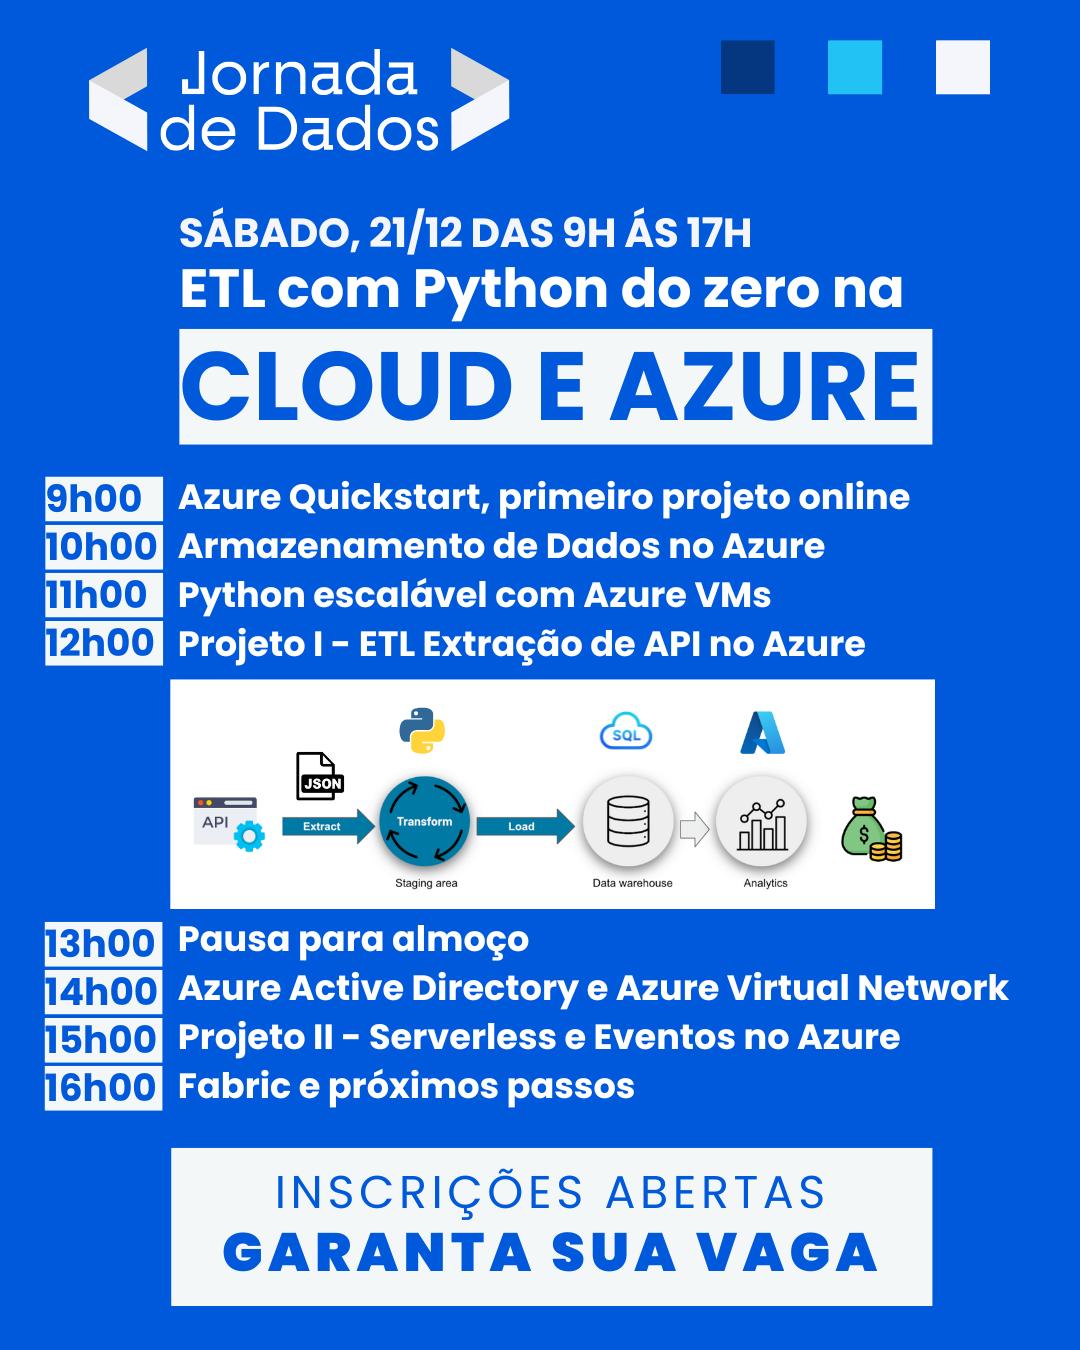
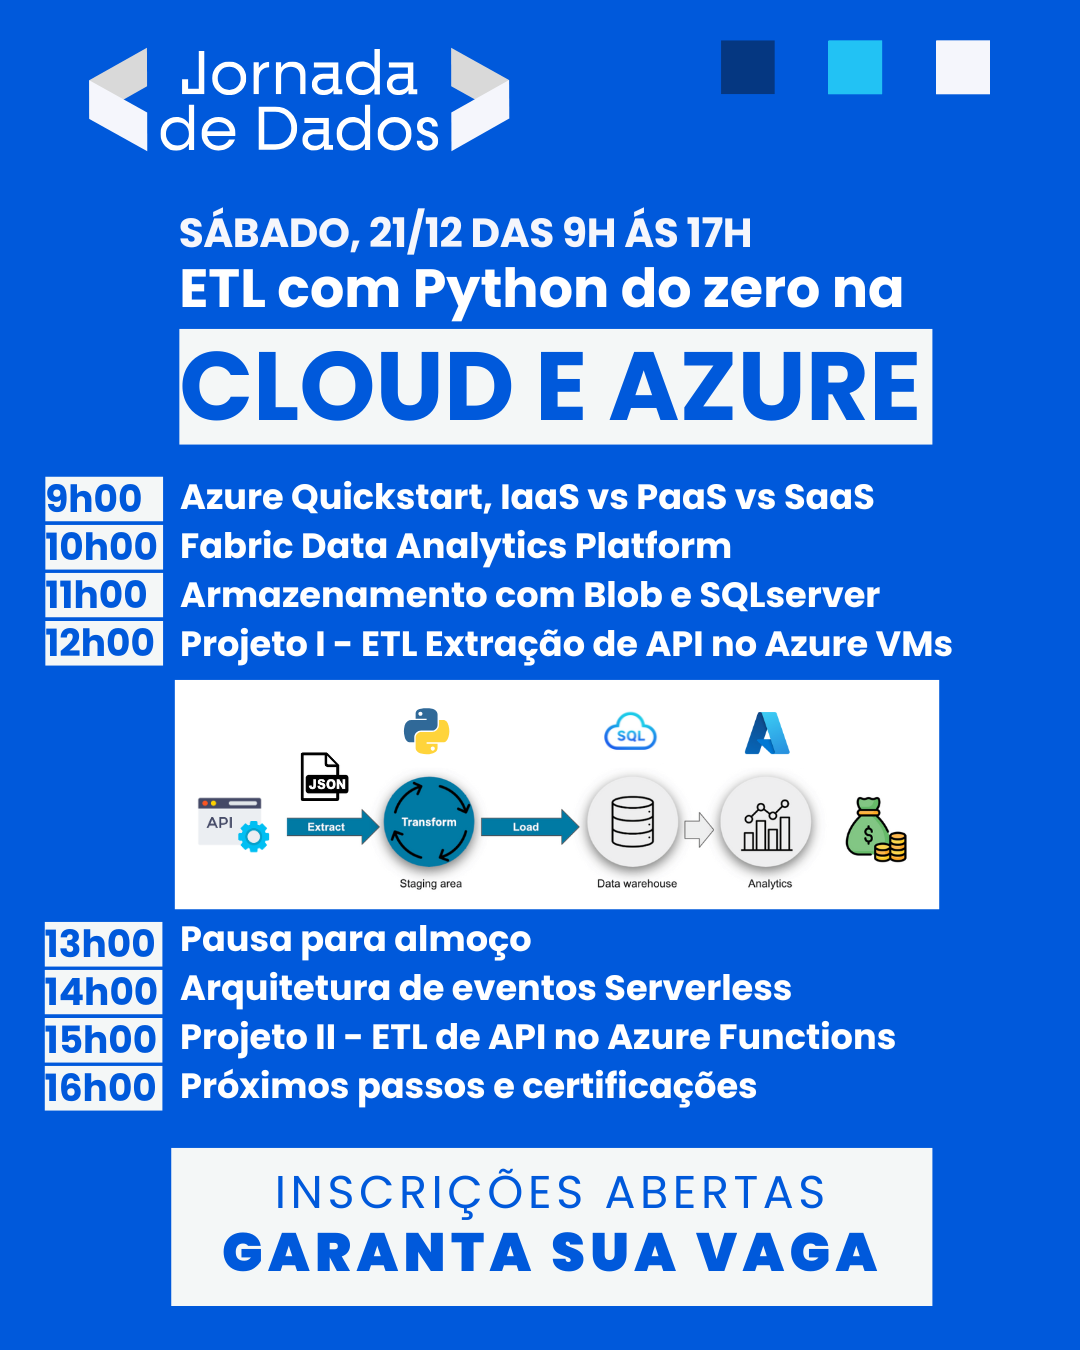
update

Changed region(s): [[0.1528, 0.3422, 0.9472, 0.84], [0.6722, 0.5289, 0.7333, 0.56], [0.55, 0.5289, 0.6111, 0.56]]

diff --git a/helloworld/README.md b/helloworld/README.md
@@ -1,0 +1,156 @@
+# Bootcamp Cloud: Aula 01
+
+## Introdução ao Azure e Cloud Computing
+
+**Objetivo:** Fornecer uma introdução prática ao uso do Azure, abordando a criação de contas, controle de custos e navegação na interface gráfica, com foco em aplicações na área de dados.
+
+---
+
+## 1. Por que Utilizar Cloud?
+
+1. **Escalabilidade:** O Azure permite escalar recursos conforme necessário, sem a necessidade de grandes investimentos iniciais.
+2. **Custo-eficiência:** Com o Azure, você paga apenas pelo que utiliza, reduzindo custos operacionais.
+3. **Acessibilidade:** Serviços de nuvem podem ser acessados de qualquer lugar, facilitando a colaboração e o trabalho remoto.
+4. **Segurança:** O Azure oferece robustos recursos de segurança, incluindo criptografia e autenticação multifator.
+
+## 2. O que Não é Cloud
+
+1. **Não é um Data Center On-Premise:** Embora a nuvem envolva servidores, não é o mesmo que ter um data center físico na empresa.
+2. **Não é apenas armazenamento:** A nuvem envolve muito mais do que apenas guardar dados. É um ecossistema completo de serviços.
+3. **Não é sempre barato:** Se mal gerido, o uso da nuvem pode resultar em custos inesperados.
+
+## 3. Acessando o Portal do Azure
+
+1. **Portal do Azure:** Visite [portal.azure.com](https://portal.azure.com).
+2. **Idioma do Portal:**
+   - O idioma pode ser configurado na conta do usuário.
+   - **Motivo:** O inglês é o idioma predominante em certificações, documentação, vagas de emprego e na própria interface do Azure.
+
+## 4. Cadastro e Configuração Inicial da Conta Azure
+
+**Criar uma Conta no Azure:**
+1. Acesse o site oficial do Azure (azure.microsoft.com) e clique em "Iniciar gratuitamente".
+2. Insira as informações solicitadas, como e-mail, senha e nome da conta.
+3. Forneça as informações de pagamento (cartão de crédito/débito) para acessar os créditos gratuitos.
+4. Verifique a conta via e-mail e complete o processo de criação.
+
+**Configurações Iniciais:**
+- O Azure oferece **200 USD em créditos gratuitos** no primeiro mês e uma camada gratuita de serviços essenciais.
+- Após o cadastro, revise as configurações de segurança e habilite a autenticação multifator (MFA) para proteger a conta.
+
+## 5. Controle de Custos no Azure
+
+**Evitar Custos Inesperados:**
+- **Azure Cost Management:** Use o Cost Management para configurar alertas de custo. Defina orçamentos mensais e configure notificações por e-mail.
+- **Azure Pricing Calculator:** Utilize a calculadora de preços para estimar custos antes de provisionar recursos.
+
+**Dicas Práticas:**
+- Defina **limites de serviço** para evitar provisionamento excessivo.
+- Revise regularmente os recursos em uso e encerre aqueles que não são necessários.
+
+## 6. Navegação no Portal do Azure
+
+**Azure Portal:**
+- O **Azure Portal** é o painel de controle principal do Azure. Ele oferece acesso a todos os serviços disponíveis, como Storage Account, Virtual Machines e SQL Database.
+
+**Serviços Comuns:**
+- **Blob Storage:** Armazenamento escalável de objetos, ideal para dados brutos, backups e arquivos de grande volume.
+- **Virtual Machines (VM):** Serviço que permite criar e gerenciar máquinas virtuais na nuvem.
+- **Azure SQL Database:** Serviço gerenciado de banco de dados relacional, que suporta várias arquiteturas.
+
+**Documentação e Suporte:**
+- O Azure oferece documentação abrangente e suporte direto no portal. Acesse a documentação para obter informações detalhadas sobre cada serviço e suas configurações.
+
+## 7. Visão Geral dos Produtos Azure
+
+1. **Explorando Todos os Produtos:**
+   - Navegue até a seção "Todos os serviços" no menu principal.
+   - Explore as diversas categorias: Computação, Armazenamento, Banco de Dados, etc.
+
+2. **Máquinas Virtuais (VM):**
+   - **Visão Geral:** Serviço que permite criar instâncias de servidores virtuais.
+   - **Tipos de Instâncias:** De uso geral, otimizadas para memória, para computação, etc.
+   - **Democratização:** A nuvem democratiza o acesso a tecnologias avançadas.
+
+3. **Visão Geral de Bancos de Dados:**
+   - **Azure SQL Database:** Gerencia bancos de dados como MySQL e PostgreSQL.
+   - **Cosmos DB:** Banco de dados NoSQL globalmente distribuído.
+   - **Data Lake Storage:** Solução para análise e armazenamento de grandes volumes de dados.
+
+## 8. Configuração de Regiões
+
+**Regiões e Zonas de Disponibilidade:**
+- **Regiões** são locais geográficos onde o Azure mantém seus data centers. Cada região possui várias **Zonas de Disponibilidade**, que são grupos de data centers fisicamente separados.
+- A escolha da região influencia a latência dos serviços e pode ter implicações legais e de conformidade.
+
+**Escolha da Região:**
+- Selecione a região mais próxima dos seus usuários ou que atenda aos requisitos específicos do projeto.
+
+## 9. Criando e Configurando uma Conta de Armazenamento
+
+Nesta seção, você aprenderá a criar e configurar uma **Storage Account** no Azure, armazenar arquivos, configurar permissões e servir um site estático.
+
+### 9.1 Criando uma Conta de Armazenamento
+
+1. **Nome da Conta:**
+   - Escolha um nome único. O nome deve ser globalmente único dentro do Azure.
+  
+2. **Localização:**
+   - Selecione a região mais próxima dos seus usuários.
+
+3. **Tipo de Conta:**
+   - Escolha entre **Standard** (geralmente mais barato) ou **Premium** (melhor performance).
+
+4. **Camadas de Acesso:**
+   - Configure o nível de acesso: **Hot** (uso frequente), **Cool** (uso menos frequente) ou **Archive** (armazenamento a longo prazo).
+
+5. **Tags:**
+   - Adicione tags para identificar e organizar sua conta de armazenamento.
+
+6. **Criptografia:**
+   - Configure a criptografia padrão para garantir que todos os objetos armazenados sejam criptografados automaticamente.
+
+### 9.2 Configurando um Blob Storage
+
+1. **Criar um Container:**
+   - No portal do Azure, crie um container dentro da conta de armazenamento.
+   - Configure as permissões (Privado, Blob, ou Público).
+
+2. **Upload de Arquivo:**
+   - Faça upload de arquivos no container.
+
+3. **Acesso Público:**
+   - Configure permissões para tornar os arquivos acessíveis publicamente, se necessário.
+
+### 9.3 Habilitando um Website Estático
+
+1. **Configuração:**
+   - Habilite a opção de hospedagem de site estático na conta de armazenamento.
+   - Defina o documento de índice, como `index.html`.
+
+2. **Acessando o Site:**
+   - Use a URL fornecida pelo Azure para acessar o site estático.
+
+---
+
+## 10. Criando e Configurando uma Máquina Virtual (VM)
+
+### 10.1 Configurando a Máquina Virtual
+
+1. **Criar uma VM:**
+   - Escolha o tipo de imagem (Windows, Linux) e tamanho da instância.
+   - Configure a rede virtual, NSG (Network Security Group) e outros parâmetros.
+
+2. **Conexão via SSH:**
+   - Use o comando SSH para conectar-se à VM:
+
+   ```bash
+   ssh -i "caminho-da-chave.pem" usuario@ip-publico
+   ```
+
+3. **Instalar Python e Aplicações:**
+   - Configure o ambiente instalando Python, `pip3` e Streamlit.
+
+---
+
+Essa estrutura substitui todos os aspectos da AWS para o equivalente no Azure, mantendo as funcionalidades principais e adaptando ao ambiente da Microsoft. Caso precise de ajustes adicionais, basta me avisar!

diff --git a/README.md b/README.md
@@ -1,5 +1,24 @@
-# Contexto de Aprendizado
-## Workshop Microsoft Azure
+ 
+<p align="center">
+  <a href="https://suajornadadedados.com.br/"><img src="https://github.com/lvgalvao/data-engineering-roadmap/raw/main/pics/logo.png" alt="Jornada de Dados"></a>
+</p>
+<p align="center">
+    <em>Nossa missão é fornecer o melhor ensino em engenharia de dados</em>
+</p>
+
+Bem-vindo a **Jornada de Dados**
+
+# Workshop Microsoft Azure
+
+---
+
+Esquema do projeto: [app.excalidraw.com](https://link.excalidraw.com/l/8pvW6zbNUnD/2gahrXjzy54)
+
+---
+
+### Site
+
+Para se inscrever: [workshop-azure](https://suajornadadedados.com.br/workshop-azure/)
 
 ### Resumo
 Este workshop tem como objetivo fornecer uma introdução prática ao uso da Microsoft Azure, abordando desde a criação de contas e controle de custos até a implementação de serviços como Azure VMs, Azure Serverless e Azure Active Directory. Os participantes irão aprender a navegar na interface do Azure, criar e gerenciar recursos, além de desenvolver projetos práticos que envolvem ETL e aplicativos web escaláveis.
@@ -12,9 +31,6 @@ Este workshop tem como objetivo fornecer uma introdução prática ao uso da Mic
 ### O que é Cloud
 Revisaremos os conceitos fundamentais de Cloud Computing, destacando as vantagens da escalabilidade, custo-eficiência, acessibilidade e segurança oferecidas pela nuvem. Discutiremos também o que não constitui uma solução de cloud, como a diferença entre cloud e data centers on-premise, além de mitigar a percepção de que a nuvem é sempre a opção mais barata.
 
-### Criação de Conta
-Os participantes serão guiados na criação de uma conta gratuita no Azure, incluindo a configuração inicial, habilitação da autenticação multifator (MFA) e a utilização do Azure Cost Management para controle de custos. Será demonstrado como acessar e navegar pelo Portal do Azure, configurando as preferências de idioma e explorando os serviços disponíveis.
-
 ### Tópico ou Unidade de Estudo
 1. Introdução ao Azure e Cloud Computing
 2. Criação e Configuração de Conta no Azure
@@ -22,11 +38,10 @@ Os participantes serão guiados na criação de uma conta gratuita no Azure, inc
 4. Navegação na Interface Gráfica do Azure
 5. Visão Geral dos Produtos Azure
 6. Tipos de Serviço no Azure
-7. Configuração de Regiões no Azure
-8. Configuração de Identidade e Acesso (Azure Active Directory e RBAC)
-9. Criação e Configuração de Serviços de Armazenamento (Blob Storage)
-10. Criação e Configuração de Máquinas Virtuais (Azure VMs)
-11. Desenvolvimento de Projetos Práticos (ETL e Serverless)
+7. Tipos de Serviço no Azure
+8. Criação e Configuração de Serviços de Armazenamento (Blob Storage) e Azure SQLServer
+9. Criação e Configuração de Máquinas Virtuais (Azure VMs)
+10. Desenvolvimento de Projetos Práticos (ETL e Serverless)
 
 ### Objetivo
 Fornecer uma introdução prática ao uso da Microsoft Azure, capacitando os participantes a criar e gerenciar recursos na nuvem, implementar soluções escaláveis e seguras, e desenvolver projetos que utilizem serviços de dados e computação disponíveis na plataforma Azure.
@@ -37,25 +52,17 @@ Fornecer uma introdução prática ao uso da Microsoft Azure, capacitando os par
 
 ![imagem](./pics/imagem_02.png)
 
-### Introdução (1 hora)
-Apresentação do workshop, objetivos e cronograma. Revisão dos conceitos básicos de Cloud Computing e introdução à plataforma Microsoft Azure. Discussão sobre as vantagens de utilizar a nuvem e o impacto no mercado de tecnologia.
-
-### Plataforma Azure vs Open Source
-Comparação entre soluções proprietárias da Azure e alternativas de código aberto. Análise de cenários onde cada abordagem é mais vantajosa, destacando interoperabilidade e flexibilidade.
-
-### Fabric (1 hora)
-Exploração do Azure Service Fabric, sua arquitetura e casos de uso. Demonstração de como implementar e gerenciar aplicativos distribuídos utilizando o Service Fabric.
-
-### Azure VMs (1 hora)
-Criação e configuração de Máquinas Virtuais no Azure. Configuração de redes, segurança e gerenciamento de VMs. Prática de deploy de uma aplicação simples em uma VM Linux.
-
-### Azure Serverless (1 hora)
-Introdução aos serviços serverless da Azure, como Azure Functions. Desenvolvimento de funções serverless para automatizar tarefas e responder a eventos em tempo real.
-
-### Implementação
-Desenvolvimento de projetos práticos:
-- **Projeto I - ETL Extração de API no Azure:** Implementação de um pipeline ETL utilizando serviços de dados do Azure.
-- **Projeto II - Serverless e Eventos no Azure:** Criação de soluções serverless que respondem a eventos, integrando diferentes serviços da Azure.
-
 ### Contexto de Aprendizado
 Introdução ao Azure e Cloud Computing, com foco em aplicações na área de dados. Revisão de conceitos anteriores para assegurar que os alunos estão preparados para absorver conteúdos novos e avançados.
+
+### Hello World
+
+### Storage
+
+#### blob storage
+
+##### parquet
+
+##### html.index
+
+### In

diff --git a/storage/bancodedados/README.md b/storage/bancodedados/README.md
@@ -1,0 +1,7 @@
+CREATE TABLE BitcoinData (
+    id INT IDENTITY(1,1) PRIMARY KEY,
+    valor FLOAT NOT NULL,
+    criptomoeda NVARCHAR(10) NOT NULL,
+    moeda NVARCHAR(10) NOT NULL,
+    timestamp DATETIME NOT NULL
+);
